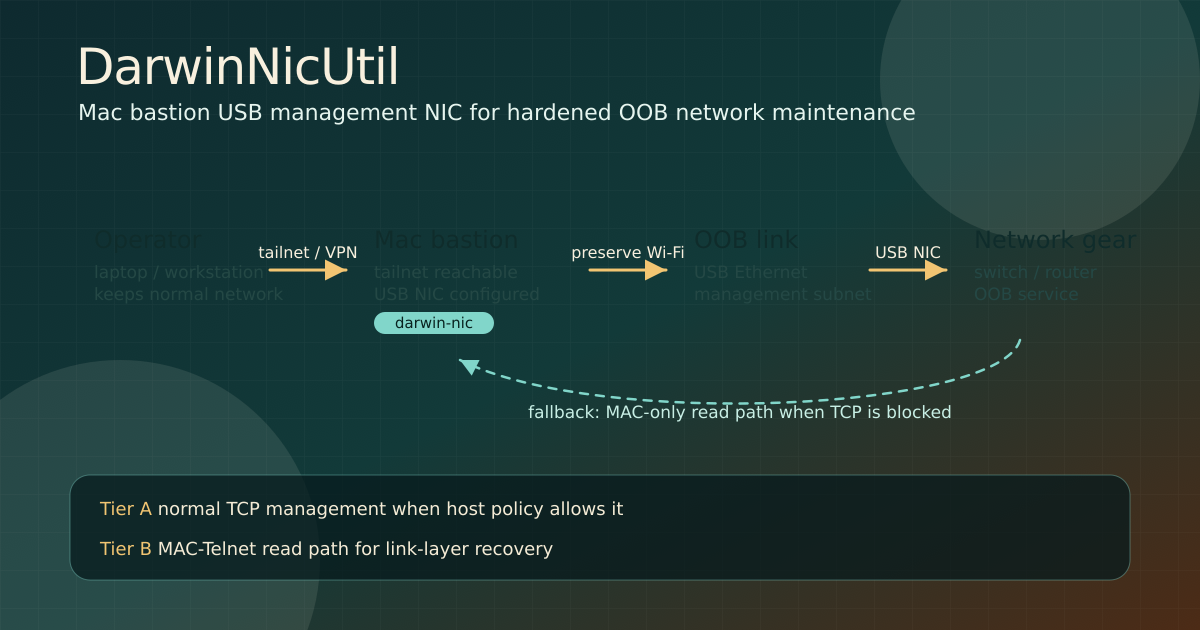
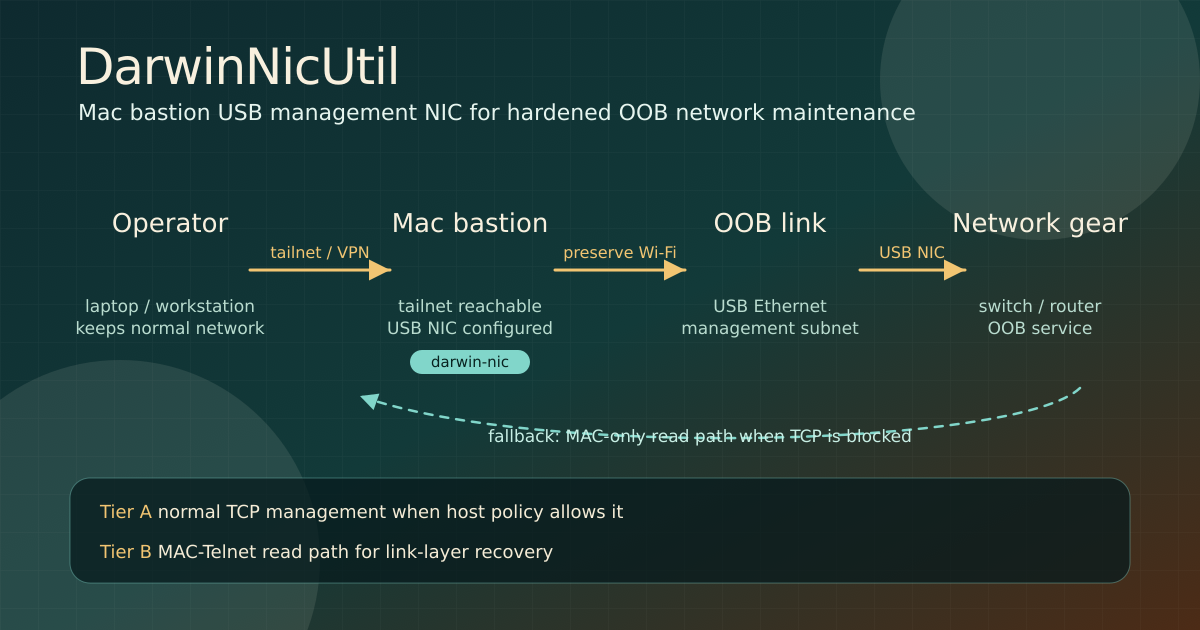
fix(blog): remove diagram cards, fix VPM->VPN typo
The card backgrounds were colliding with the edge labels in the arrow gaps;
without them the flow reads as four typographic columns with the arrow lane
running cleanly between title and detail rows. Also fixed VPM -> VPN in the
network-stack paragraph.

diff --git a/src/posts/2026-04-28-darwin-nic-docs-are-live.md b/src/posts/2026-04-28-darwin-nic-docs-are-live.md
@@ -26,7 +26,7 @@ This is my little mac-as-bastion tool for enterprise-like macs (ie, the bastion 
 
 In my case, I have a bastion mac mini that I federate with a my own MDM and declerative network stack.  Remember, as a crazy person, [WPA3 Enterprise 192-bit](https://smallstep.com/blog/home-network-eap-tls-wifi/) is far to simple minded for my basement; if you arn't managing a few dozen discreet eap-tls networks with Nix, ansible, does it even count as a lab?  anyway, my network topology is a story for another day, as it *changes pretty much every day* (as it has for most of my adult life).   This is where having a footgun safety t comes into play- enter **DarwinNicUtil**.
 
-While to mini's network stack itself is out of the scope of this post, it mimics- to some degree- a managed enterprise workplace network stack with ABR, Nebula, Tailscale, ZTNA, multiple local profile-managed VPM connections for various local networks, ome of which are phyically air gapped by default as well (so switching physical NIC connections is required as part of use, which is a core source of failiure for macs as a bastion host- MacOS will try to re-organize and prioritize network devices, usually guessing incorrectly), thus the need for a bigger hammer. 
+While to mini's network stack itself is out of the scope of this post, it mimics- to some degree- a managed enterprise workplace network stack with ABR, Nebula, Tailscale, ZTNA, multiple local profile-managed VPN connections for various local networks, ome of which are phyically air gapped by default as well (so switching physical NIC connections is required as part of use, which is a core source of failiure for macs as a bastion host- MacOS will try to re-organize and prioritize network devices, usually guessing incorrectly), thus the need for a bigger hammer. 
 
 
 ![DarwinNicUtil Mac bastion OOB flow](/images/posts/darwin-nic-bastion-flow.svg)
